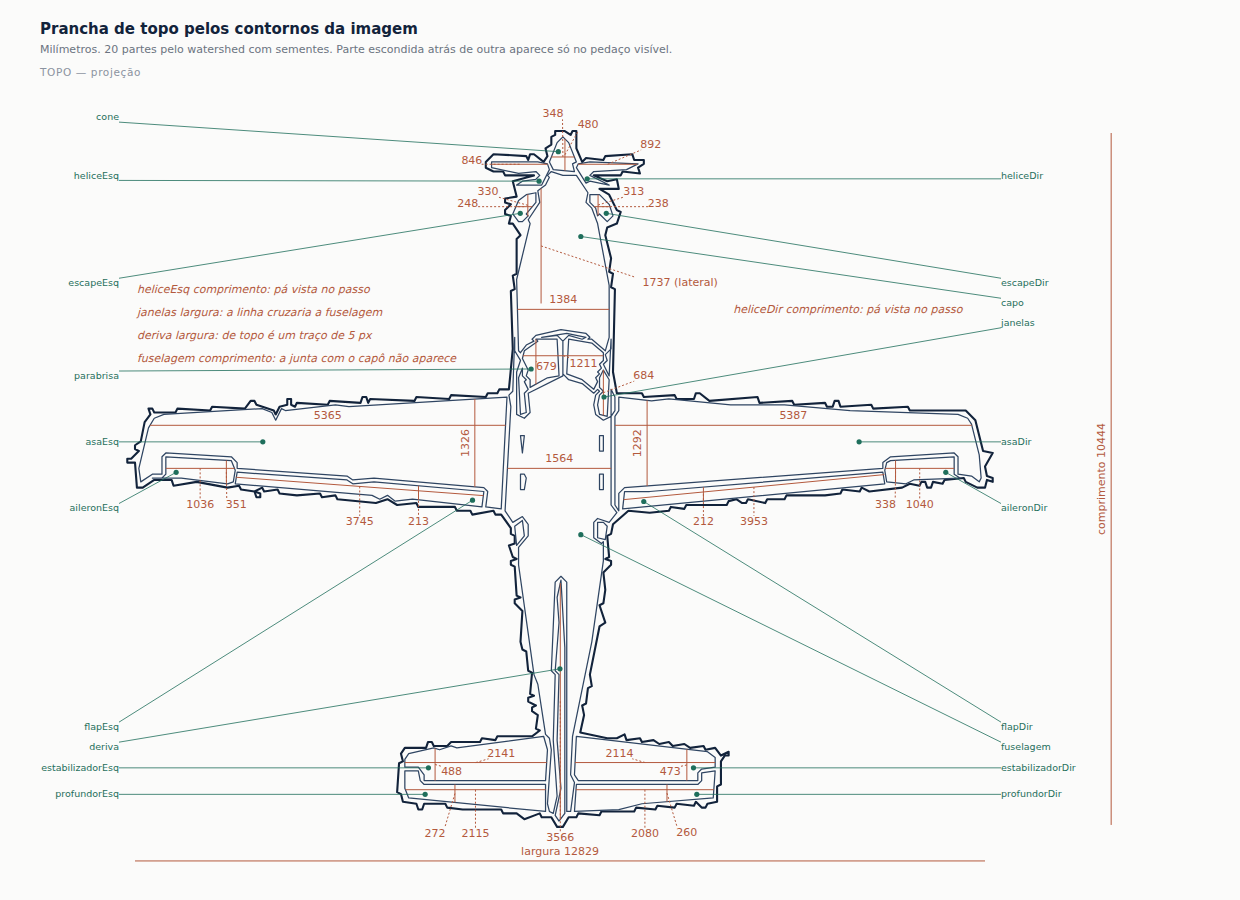
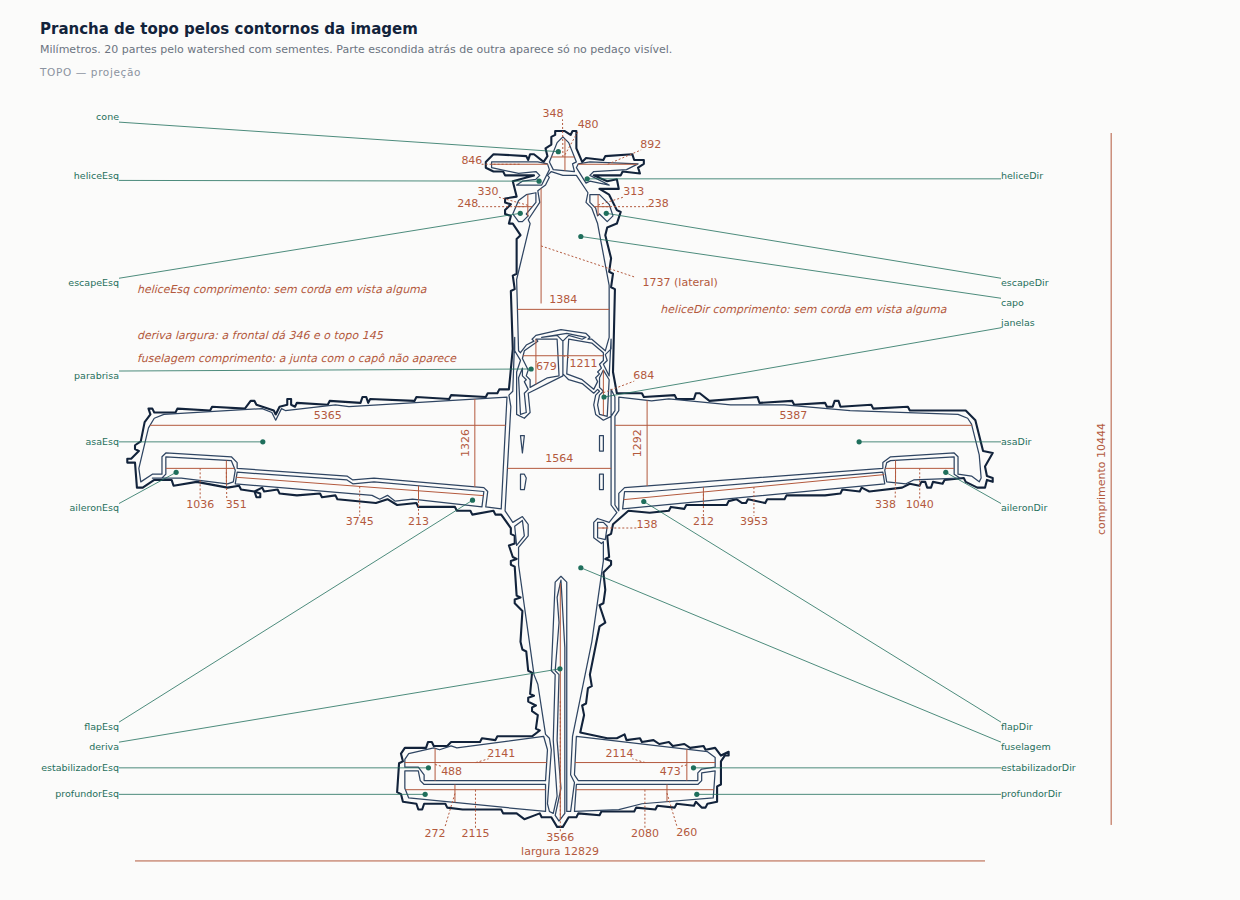
Prancha de topo com a largura de uma janela cotada
Claude-Session: https://claude.ai/code/session_015i1y8CrgTgEfwGG2HEX8g8

diff --git a/docs/mecanifica/banco-de-provas/aviao-2026-10-11/referencias/topo.prancha.pacote/roteiro.md b/docs/mecanifica/banco-de-provas/aviao-2026-10-11/referencias/topo.prancha.pacote/roteiro.md
@@ -16,9 +16,9 @@ Abra o alvo (/home/user/nos-mecanifica/docs/mecanifica/banco-de-provas/aviao-202
 
 ## Etapa 3 — heliceEsq
 
-- cotas esperadas: largura (medida aqui) e comprimento (não medível: pá vista no passo). Cobre só estas duas; cota em falta é `cota` com sentido `faltando`.
+- cotas esperadas: largura (medida aqui) e comprimento (não medível: sem corda em vista alguma). Cobre só estas duas; cota em falta é `cota` com sentido `faltando`.
 - largura: cota 846. A linha atravessa a seção que o modelador precisa, dentro de heliceEsq?
-- comprimento: EM FALTA: só há a nota "pá vista no passo", que não dá número. A linha mede heliceEsq de ponta a ponta na vertical, sem pegar parte vizinha?
+- comprimento: EM FALTA: só há a nota "sem corda em vista alguma", que não dá número. A linha mede heliceEsq de ponta a ponta na vertical, sem pegar parte vizinha?
 - nome: "heliceEsq" fica na coluna da esquerda. A chamada termina dentro de heliceEsq, e não numa vizinha?
 - linhas livres: a chamada e as cotas de heliceEsq não cruzam outra linha nem passam sobre número ou nome?
 
@@ -64,8 +64,8 @@ Abra o alvo (/home/user/nos-mecanifica/docs/mecanifica/banco-de-provas/aviao-202
 
 ## Etapa 9 — deriva
 
-- cotas esperadas: largura (não medível: de topo é um traço de 5 px) e comprimento (medida aqui). Cobre só estas duas; cota em falta é `cota` com sentido `faltando`.
-- largura: EM FALTA: só há a nota "de topo é um traço de 5 px", que não dá número. A linha atravessa a seção que o modelador precisa, dentro de deriva?
+- cotas esperadas: largura (não medível: a frontal dá 346 e o topo 145) e comprimento (medida aqui). Cobre só estas duas; cota em falta é `cota` com sentido `faltando`.
+- largura: EM FALTA: só há a nota "a frontal dá 346 e o topo 145", que não dá número. A linha atravessa a seção que o modelador precisa, dentro de deriva?
 - comprimento: cota 3566. A linha mede deriva de ponta a ponta na vertical, sem pegar parte vizinha?
 - nome: "deriva" fica na coluna da esquerda. A chamada termina dentro de deriva, e não numa vizinha?
 - linhas livres: a chamada e as cotas de deriva não cruzam outra linha nem passam sobre número ou nome?
@@ -88,9 +88,9 @@ Abra o alvo (/home/user/nos-mecanifica/docs/mecanifica/banco-de-provas/aviao-202
 
 ## Etapa 12 — heliceDir
 
-- cotas esperadas: largura (medida aqui) e comprimento (não medível: pá vista no passo). Cobre só estas duas; cota em falta é `cota` com sentido `faltando`.
+- cotas esperadas: largura (medida aqui) e comprimento (não medível: sem corda em vista alguma). Cobre só estas duas; cota em falta é `cota` com sentido `faltando`.
 - largura: cota 892. A linha atravessa a seção que o modelador precisa, dentro de heliceDir?
-- comprimento: EM FALTA: só há a nota "pá vista no passo", que não dá número. A linha mede heliceDir de ponta a ponta na vertical, sem pegar parte vizinha?
+- comprimento: EM FALTA: só há a nota "sem corda em vista alguma", que não dá número. A linha mede heliceDir de ponta a ponta na vertical, sem pegar parte vizinha?
 - nome: "heliceDir" fica na coluna da direita. A chamada termina dentro de heliceDir, e não numa vizinha?
 - linhas livres: a chamada e as cotas de heliceDir não cruzam outra linha nem passam sobre número ou nome?
 
@@ -112,8 +112,8 @@ Abra o alvo (/home/user/nos-mecanifica/docs/mecanifica/banco-de-provas/aviao-202
 
 ## Etapa 15 — janelas
 
-- cotas esperadas: largura (não medível: a linha cruzaria a fuselagem) e comprimento (medida aqui). Cobre só estas duas; cota em falta é `cota` com sentido `faltando`.
-- largura: EM FALTA: só há a nota "a linha cruzaria a fuselagem", que não dá número. A linha atravessa a seção que o modelador precisa, dentro de janelas?
+- cotas esperadas: largura (medida aqui) e comprimento (medida aqui). Cobre só estas duas; cota em falta é `cota` com sentido `faltando`.
+- largura: cota 138. A linha atravessa a seção que o modelador precisa, dentro de janelas?
 - comprimento: cota 684. A linha mede janelas de ponta a ponta na vertical, sem pegar parte vizinha?
 - nome: "janelas" fica na coluna da direita. A chamada termina dentro de janelas, e não numa vizinha?
 - linhas livres: a chamada e as cotas de janelas não cruzam outra linha nem passam sobre número ou nome?
